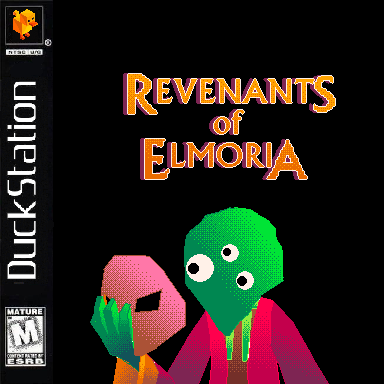
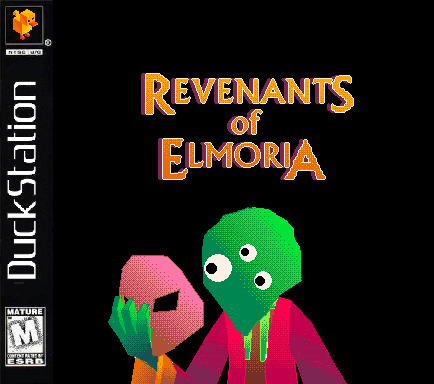
updates

diff --git a/web/index.html b/web/index.html
@@ -58,8 +58,8 @@
         console.log('Base path:', basePath);
 
         // Load .rom file (renamed .zip - itch.io blocks .zip with 403)
-        // Contains lander.bin + lander.cue for CD audio support
-        window.EJS_gameUrl = basePath + 'rom/lander.rom';
+        // Contains revenants_of_elmoria.bin + revenants_of_elmoria.cue for CD audio support
+        window.EJS_gameUrl = basePath + 'rom/revenants_of_elmoria.rom';
         window.EJS_pathtodata = 'https://cdn.emulatorjs.org/stable/data/';
         window.EJS_startOnLoaded = true;
         // Provide OpenBIOS

diff --git a/tools/build_iso.py b/tools/build_iso.py
@@ -102,7 +102,7 @@ def create_iso_xml(audio_tracks=None):
     """
     xml = '''<?xml version="1.0" encoding="UTF-8"?>
 
-<iso_project image_name="lander.bin" cue_sheet="lander.cue">
+<iso_project image_name="revenants_of_elmoria.bin" cue_sheet="revenants_of_elmoria.cue">
 \t<track type="data">
 \t\t<directory_tree>
 \t\t\t<file name="SYSTEM.CNF" source="system.cnf"/>
@@ -204,8 +204,8 @@ def main():
 
     # Update XML to use temp filenames
     xml_content = xml_path.read_text()
-    xml_content = xml_content.replace('image_name="lander.bin"', f'image_name="{temp_bin}"')
-    xml_content = xml_content.replace('cue_sheet="lander.cue"', f'cue_sheet="{temp_cue}"')
+    xml_content = xml_content.replace('image_name="revenants_of_elmoria.bin"', f'image_name="{temp_bin}"')
+    xml_content = xml_content.replace('cue_sheet="revenants_of_elmoria.cue"', f'cue_sheet="{temp_cue}"')
     xml_path.write_text(xml_content)
 
     cmd = f'"{mkpsxiso}" iso.xml -y'
@@ -224,8 +224,8 @@ def main():
     cue_path = work_dir / temp_cue
 
     if bin_path.exists():
-        dest_bin = OUTPUT_DIR / "lander.bin"
-        dest_cue = OUTPUT_DIR / "lander.cue"
+        dest_bin = OUTPUT_DIR / "revenants_of_elmoria.bin"
+        dest_cue = OUTPUT_DIR / "revenants_of_elmoria.cue"
 
         for dest in [dest_bin, dest_cue]:
             if dest.exists():
@@ -238,7 +238,7 @@ def main():
         shutil.copy(bin_path, dest_bin)
 
         cue_content = cue_path.read_text()
-        cue_content = cue_content.replace(temp_bin, "lander.bin")
+        cue_content = cue_content.replace(temp_bin, "revenants_of_elmoria.bin")
         dest_cue.write_text(cue_content)
 
         # Clean up temp files
@@ -254,16 +254,16 @@ def main():
 
         # Create zip for EmulatorJS, renamed to .rom (itch.io blocks .zip)
         import zipfile
-        dest_zip = OUTPUT_DIR / "lander.zip"
-        dest_rom = OUTPUT_DIR / "lander.rom"
+        dest_zip = OUTPUT_DIR / "revenants_of_elmoria.zip"
+        dest_rom = OUTPUT_DIR / "revenants_of_elmoria.rom"
         try:
             if dest_zip.exists():
                 dest_zip.unlink()
             if dest_rom.exists():
                 dest_rom.unlink()
             with zipfile.ZipFile(dest_zip, 'w', zipfile.ZIP_DEFLATED) as zf:
-                zf.write(dest_bin, "lander.bin")
-                zf.write(dest_cue, "lander.cue")
+                zf.write(dest_bin, "revenants_of_elmoria.bin")
+                zf.write(dest_cue, "revenants_of_elmoria.cue")
             # Rename to .rom for itch.io compatibility
             dest_zip.rename(dest_rom)
             rom_size = dest_rom.stat().st_size / (1024 * 1024)

diff --git a/src/engine/spu.c b/src/engine/spu.c
@@ -18,6 +18,8 @@ static uint32_t spuRamPos = SPU_RAM_START;
 #define SPU_VOICES ((volatile struct SPUVoice *)0x1f801c00)
 #define SPU_VOL_MAIN_LEFT   (*(volatile uint16_t *)0x1f801d80)
 #define SPU_VOL_MAIN_RIGHT  (*(volatile uint16_t *)0x1f801d82)
+#define SPU_VOL_REVERB_LEFT (*(volatile uint16_t *)0x1f801d84)
+#define SPU_VOL_REVERB_RIGHT (*(volatile uint16_t *)0x1f801d86)
 #define SPU_KEY_ON_LOW      (*(volatile uint16_t *)0x1f801d88)
 #define SPU_KEY_ON_HIGH     (*(volatile uint16_t *)0x1f801d8a)
 #define SPU_KEY_OFF_LOW     (*(volatile uint16_t *)0x1f801d8c)
@@ -109,6 +111,8 @@ void setupSPU(void) {
 	SPU_NOISE_EN_HIGH = 0;
 	SPU_REVERB_EN_LOW = 0;
 	SPU_REVERB_EN_HIGH = 0;
+	SPU_VOL_REVERB_LEFT = 0;   /* Mute reverb output */
+	SPU_VOL_REVERB_RIGHT = 0;
 	SPU_VOL_EXT_LEFT = 0;
 	SPU_VOL_EXT_RIGHT = 0;
 	SPU_CTRL_REG = 0x8000;

diff --git a/src/game/game_config.h b/src/game/game_config.h
@@ -13,13 +13,13 @@
 *============================================================================*/
 
 /* Movement speed (world units per frame) */
-#define PLAYER_MOVE_SPEED       20000
+#define PLAYER_MOVE_SPEED       10000
 
 /* Outdoor speed multiplier (256 = 1.0x, 512 = 2.0x, etc.) */
 #define OUTDOOR_SPEED_MULT      1024
 
 /* Turn/rotation speed (angle units per frame, 4096 = 360 degrees) */
-#define PLAYER_TURN_SPEED       128
+#define PLAYER_TURN_SPEED       64
 
 /* Starting rotation (0=North, 1024=East, 2048=South, 3072=West) */
 #define PLAYER_START_ROTATION   1024
